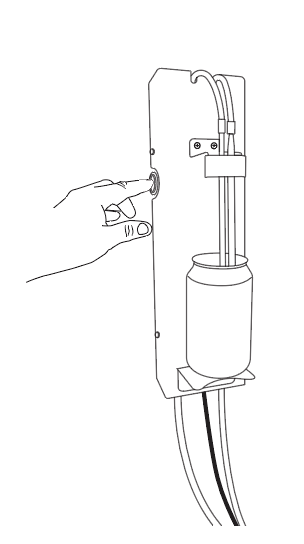
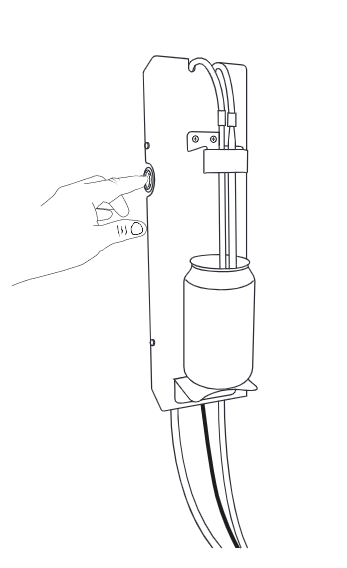
Refreshes Retype-generated documentation.
Process triggered by Duofiller.

diff --git a/resources/js/config.js b/resources/js/config.js
@@ -1,1 +1,1 @@
-var __DOCS_CONFIG__ = {"id":"s185HnfeoVjmyyXdtyR87ZmK+r4d1M/73R4","key":"ry7OBm73P9h36mvz9O0vDS8Y2OqiRHGUnNoby+4q1lA.eOgbhUFNteDAMKGIQwFEsNqPZ2B8cVY2CDHzp5SC6LnXHkr6Cef8ITySJhLsXzydmYxrfEtNH13CwtdbkL3NbQ.83","base":"/","host":"","version":"1.0.0","useRelativePaths":true,"documentName":"index.html","appendDocumentName":false,"trailingSlash":true,"preloadSearch":false,"cacheBustingToken":"2.3.0.708698664127","cacheBustingStrategy":"query","sidebarFilterPlaceholder":"Filter","toolbarFilterPlaceholder":"Filter","showSidebarFilter":true,"filterNotFoundMsg":"No member names found containing the query \"{query}\"","maxHistoryItems":15,"homeIcon":"<path d=\"M12.97 2.59a1.5 1.5 0 00-1.94 121 0l-7.5 6.363A1.5 1.5 0 003 10.097V19.5A1.5 1.5 0 004.5 21h4.75a.75.75 0 00.75-.75V14h4v6.25c0 .414.336.75.75.75h4.75a1.5 1.5 0 001.5-1.5v-9.403a1.5 1.5 0 00-.53-1.144l-7.5-6.363z\"></path>","access":[{"value":"public","label":"Public"},{"value":"protected","label":"Protected"}],"toolbarLinks":[{"id":"fields","label":"Fields"},{"id":"properties","label":"Properties","shortLabel":"Props"},{"id":"methods","label":"Methods"},{"id":"events","label":"Events"}],"sidebar":[{"n":"assembly","l":"Assembly"},{"n":"hookup","l":"Hookup"},{"n":"introduction","l":"Introduction"},{"n":"quickreference","l":"Quick reference"},{"n":"specs","l":"Specs"},{"n":"/","l":"Welcome"},{"n":"cleaning","l":"Cleaning"},{"n":"faq","l":"FAQ"},{"n":"operation","l":"Operation"},{"n":"safety","l":"Safety"},{"n":"tips-and-tricks","l":"Tips and tricks"},{"n":"troubleshooting","l":"Troubleshooting"}],"search":{"mode":0,"minChars":2,"maxResults":20,"placeholder":"Search","hotkeys":["/"],"noResultsFoundMsg":"Sorry, no results found.","recognizeLanguages":true,"languages":[0],"preload":false}};
+var __DOCS_CONFIG__ = {"id":"j12m0Ucc71853u3VFbr7utP57XaAacrs4m3","key":"uj9vy/Y7i84wtmTUMDnAlfza25to502yFUkhLZXHqTw.T2sVLEGMCAtL5J9/tHYPbv567xr5jfXDPhp77x6SQBN7JD4iv3T32SYGl/EeWsrK2DrhZkPmEVpYugqy6i2uAA.31","base":"/","host":"","version":"1.0.0","useRelativePaths":true,"documentName":"index.html","appendDocumentName":false,"trailingSlash":true,"preloadSearch":false,"cacheBustingToken":"2.3.0.708700563528","cacheBustingStrategy":"query","sidebarFilterPlaceholder":"Filter","toolbarFilterPlaceholder":"Filter","showSidebarFilter":true,"filterNotFoundMsg":"No member names found containing the query \"{query}\"","maxHistoryItems":15,"homeIcon":"<path d=\"M12.97 2.59a1.5 1.5 0 00-1.94 121 0l-7.5 6.363A1.5 1.5 0 003 10.097V19.5A1.5 1.5 0 004.5 21h4.75a.75.75 0 00.75-.75V14h4v6.25c0 .414.336.75.75.75h4.75a1.5 1.5 0 001.5-1.5v-9.403a1.5 1.5 0 00-.53-1.144l-7.5-6.363z\"></path>","access":[{"value":"public","label":"Public"},{"value":"protected","label":"Protected"}],"toolbarLinks":[{"id":"fields","label":"Fields"},{"id":"properties","label":"Properties","shortLabel":"Props"},{"id":"methods","label":"Methods"},{"id":"events","label":"Events"}],"sidebar":[{"n":"assembly","l":"Assembly"},{"n":"hookup","l":"Hookup"},{"n":"introduction","l":"Introduction"},{"n":"quickreference","l":"Quick reference"},{"n":"specs","l":"Specs"},{"n":"/","l":"Welcome"},{"n":"cleaning","l":"Cleaning"},{"n":"faq","l":"FAQ"},{"n":"operation","l":"Operation"},{"n":"safety","l":"Safety"},{"n":"tips-and-tricks","l":"Tips and tricks"},{"n":"troubleshooting","l":"Troubleshooting"}],"search":{"mode":0,"minChars":2,"maxResults":20,"placeholder":"Search","hotkeys":["/"],"noResultsFoundMsg":"Sorry, no results found.","recognizeLanguages":true,"languages":[0],"preload":false}};

diff --git a/operation/index.html b/operation/index.html
@@ -3,7 +3,7 @@
 <head>
     <meta charset="UTF-8">
     <meta name="viewport" content="width=device-width,initial-scale=1">
-    <meta name="turbo-cache-control" content="no-cache" data-turbo-track="reload" data-track-token="2.3.0.708698664127">
+    <meta name="turbo-cache-control" content="no-cache" data-turbo-track="reload" data-track-token="2.3.0.708700563528">
 
     <!-- See retype.com -->
     <meta name="generator" content="Retype 2.3.0">
@@ -30,11 +30,11 @@
 
     <script>(function () { var el = document.documentElement, m = localStorage.getItem("doc_theme"), wm = window.matchMedia; if (m === "dark" || (!m && wm && wm("(prefers-color-scheme: dark)").matches)) { el.classList.add("dark") } else { el.classList.remove("dark") } })();</script>
 
-    <link href="../resources/css/retype.css?v=2.3.0.708698664127" rel="stylesheet" />
+    <link href="../resources/css/retype.css?v=2.3.0.708700563528" rel="stylesheet" />
 
-    <script type="text/javascript" src="../resources/js/config.js?v=2.3.0.708698664127" data-turbo-eval="false" defer></script>
+    <script type="text/javascript" src="../resources/js/config.js?v=2.3.0.708700563528" data-turbo-eval="false" defer></script>
     <script type="text/javascript" src="../resources/js/retype.js?v=2.3.0" data-turbo-eval="false" defer></script>
-    <script id="lunr-js" type="text/javascript" src="../resources/js/lunr.js?v=2.3.0.708698664127" data-turbo-eval="false" defer></script>
+    <script id="lunr-js" type="text/javascript" src="../resources/js/lunr.js?v=2.3.0.708700563528" data-turbo-eval="false" defer></script>
     <script id="mermaid-js" type="text/javascript" src="../resources/js/mermaid.js?v=2.3.0" defer></script>
 </head>
 <body>
@@ -212,11 +212,21 @@
 </doc-anchor-target>
 <p>The operation of the Duofiller and Duofiller Mono is simple and intuitive. When the filler is idle give the corresponding push-button a short press to start a fill. The fill sequence will start with purge and then beverage fill. Any time during the fill sequence it can be stopped/aborted by a short press on the push button.</p>
 <p>A typical can-fill run:</p>
+<img src="/docs/static/Monocan.png" alt="drawing" style="width:200px;"/>
 <ol type="I">
+<li>Choose Sensor Mode or Timer Mode</li>
 <li>Insert empty can, press button to start fill</li>
 <li>Wait until filling stops</li>
 <li>Remove the full can, insert a new empty can</li>
-<li>Press button to start a new fill</li>
+<li>Press button to start a new fill. Repeat.</li>
+</ol>
+<p>A typical bottle-fill run:</p>
+<ol type="I">
+<li>Choose Timer Mode</li>
+<li>Insert empty bottle, press button to start fill. Hold bottle in place by hand while filling</li>
+<li>Move bottle downwards as it fills, keeping the fill-tube submerged only a few centimeters into the liquid. Wait until filling stops</li>
+<li>Remove the full bottle, insert a new empty bottle</li>
+<li>Press button to start a new fill. Repeat.</li>
 </ol>
 <p>To set the fill level setpoints we first go through the different modes:</p>
 <doc-anchor-target id="timer-mode">

diff --git a/assembly/index.html b/assembly/index.html
@@ -3,7 +3,7 @@
 <head>
     <meta charset="UTF-8">
     <meta name="viewport" content="width=device-width,initial-scale=1">
-    <meta name="turbo-cache-control" content="no-cache" data-turbo-track="reload" data-track-token="2.3.0.708698664127">
+    <meta name="turbo-cache-control" content="no-cache" data-turbo-track="reload" data-track-token="2.3.0.708700563528">
 
     <!-- See retype.com -->
     <meta name="generator" content="Retype 2.3.0">
@@ -27,11 +27,11 @@
 
     <script>(function () { var el = document.documentElement, m = localStorage.getItem("doc_theme"), wm = window.matchMedia; if (m === "dark" || (!m && wm && wm("(prefers-color-scheme: dark)").matches)) { el.classList.add("dark") } else { el.classList.remove("dark") } })();</script>
 
-    <link href="../resources/css/retype.css?v=2.3.0.708698664127" rel="stylesheet" />
+    <link href="../resources/css/retype.css?v=2.3.0.708700563528" rel="stylesheet" />
 
-    <script type="text/javascript" src="../resources/js/config.js?v=2.3.0.708698664127" data-turbo-eval="false" defer></script>
+    <script type="text/javascript" src="../resources/js/config.js?v=2.3.0.708700563528" data-turbo-eval="false" defer></script>
     <script type="text/javascript" src="../resources/js/retype.js?v=2.3.0" data-turbo-eval="false" defer></script>
-    <script id="lunr-js" type="text/javascript" src="../resources/js/lunr.js?v=2.3.0.708698664127" data-turbo-eval="false" defer></script>
+    <script id="lunr-js" type="text/javascript" src="../resources/js/lunr.js?v=2.3.0.708700563528" data-turbo-eval="false" defer></script>
 </head>
 <body>
     <div id="docs-app" class="relative text-base antialiased text-gray-700 bg-white font-body dark:bg-dark-850 dark:text-dark-300">

diff --git a/cleaning/index.html b/cleaning/index.html
@@ -3,7 +3,7 @@
 <head>
     <meta charset="UTF-8">
     <meta name="viewport" content="width=device-width,initial-scale=1">
-    <meta name="turbo-cache-control" content="no-cache" data-turbo-track="reload" data-track-token="2.3.0.708698664127">
+    <meta name="turbo-cache-control" content="no-cache" data-turbo-track="reload" data-track-token="2.3.0.708700563528">
 
     <!-- See retype.com -->
     <meta name="generator" content="Retype 2.3.0">
@@ -30,11 +30,11 @@
 
     <script>(function () { var el = document.documentElement, m = localStorage.getItem("doc_theme"), wm = window.matchMedia; if (m === "dark" || (!m && wm && wm("(prefers-color-scheme: dark)").matches)) { el.classList.add("dark") } else { el.classList.remove("dark") } })();</script>
 
-    <link href="../resources/css/retype.css?v=2.3.0.708698664127" rel="stylesheet" />
+    <link href="../resources/css/retype.css?v=2.3.0.708700563528" rel="stylesheet" />
 
-    <script type="text/javascript" src="../resources/js/config.js?v=2.3.0.708698664127" data-turbo-eval="false" defer></script>
+    <script type="text/javascript" src="../resources/js/config.js?v=2.3.0.708700563528" data-turbo-eval="false" defer></script>
     <script type="text/javascript" src="../resources/js/retype.js?v=2.3.0" data-turbo-eval="false" defer></script>
-    <script id="lunr-js" type="text/javascript" src="../resources/js/lunr.js?v=2.3.0.708698664127" data-turbo-eval="false" defer></script>
+    <script id="lunr-js" type="text/javascript" src="../resources/js/lunr.js?v=2.3.0.708700563528" data-turbo-eval="false" defer></script>
 </head>
 <body>
     <div id="docs-app" class="relative text-base antialiased text-gray-700 bg-white font-body dark:bg-dark-850 dark:text-dark-300">

diff --git a/faq/index.html b/faq/index.html
@@ -3,7 +3,7 @@
 <head>
     <meta charset="UTF-8">
     <meta name="viewport" content="width=device-width,initial-scale=1">
-    <meta name="turbo-cache-control" content="no-cache" data-turbo-track="reload" data-track-token="2.3.0.708698664127">
+    <meta name="turbo-cache-control" content="no-cache" data-turbo-track="reload" data-track-token="2.3.0.708700563528">
 
     <!-- See retype.com -->
     <meta name="generator" content="Retype 2.3.0">
@@ -30,11 +30,11 @@
 
     <script>(function () { var el = document.documentElement, m = localStorage.getItem("doc_theme"), wm = window.matchMedia; if (m === "dark" || (!m && wm && wm("(prefers-color-scheme: dark)").matches)) { el.classList.add("dark") } else { el.classList.remove("dark") } })();</script>
 
-    <link href="../resources/css/retype.css?v=2.3.0.708698664127" rel="stylesheet" />
+    <link href="../resources/css/retype.css?v=2.3.0.708700563528" rel="stylesheet" />
 
-    <script type="text/javascript" src="../resources/js/config.js?v=2.3.0.708698664127" data-turbo-eval="false" defer></script>
+    <script type="text/javascript" src="../resources/js/config.js?v=2.3.0.708700563528" data-turbo-eval="false" defer></script>
     <script type="text/javascript" src="../resources/js/retype.js?v=2.3.0" data-turbo-eval="false" defer></script>
-    <script id="lunr-js" type="text/javascript" src="../resources/js/lunr.js?v=2.3.0.708698664127" data-turbo-eval="false" defer></script>
+    <script id="lunr-js" type="text/javascript" src="../resources/js/lunr.js?v=2.3.0.708700563528" data-turbo-eval="false" defer></script>
 </head>
 <body>
     <div id="docs-app" class="relative text-base antialiased text-gray-700 bg-white font-body dark:bg-dark-850 dark:text-dark-300">

diff --git a/hookup/index.html b/hookup/index.html
@@ -3,7 +3,7 @@
 <head>
     <meta charset="UTF-8">
     <meta name="viewport" content="width=device-width,initial-scale=1">
-    <meta name="turbo-cache-control" content="no-cache" data-turbo-track="reload" data-track-token="2.3.0.708698664127">
+    <meta name="turbo-cache-control" content="no-cache" data-turbo-track="reload" data-track-token="2.3.0.708700563528">
 
     <!-- See retype.com -->
     <meta name="generator" content="Retype 2.3.0">
@@ -30,11 +30,11 @@
 
     <script>(function () { var el = document.documentElement, m = localStorage.getItem("doc_theme"), wm = window.matchMedia; if (m === "dark" || (!m && wm && wm("(prefers-color-scheme: dark)").matches)) { el.classList.add("dark") } else { el.classList.remove("dark") } })();</script>
 
-    <link href="../resources/css/retype.css?v=2.3.0.708698664127" rel="stylesheet" />
+    <link href="../resources/css/retype.css?v=2.3.0.708700563528" rel="stylesheet" />
 
-    <script type="text/javascript" src="../resources/js/config.js?v=2.3.0.708698664127" data-turbo-eval="false" defer></script>
+    <script type="text/javascript" src="../resources/js/config.js?v=2.3.0.708700563528" data-turbo-eval="false" defer></script>
     <script type="text/javascript" src="../resources/js/retype.js?v=2.3.0" data-turbo-eval="false" defer></script>
-    <script id="lunr-js" type="text/javascript" src="../resources/js/lunr.js?v=2.3.0.708698664127" data-turbo-eval="false" defer></script>
+    <script id="lunr-js" type="text/javascript" src="../resources/js/lunr.js?v=2.3.0.708700563528" data-turbo-eval="false" defer></script>
 </head>
 <body>
     <div id="docs-app" class="relative text-base antialiased text-gray-700 bg-white font-body dark:bg-dark-850 dark:text-dark-300">

diff --git a/introduction/index.html b/introduction/index.html
@@ -3,7 +3,7 @@
 <head>
     <meta charset="UTF-8">
     <meta name="viewport" content="width=device-width,initial-scale=1">
-    <meta name="turbo-cache-control" content="no-cache" data-turbo-track="reload" data-track-token="2.3.0.708698664127">
+    <meta name="turbo-cache-control" content="no-cache" data-turbo-track="reload" data-track-token="2.3.0.708700563528">
 
     <!-- See retype.com -->
     <meta name="generator" content="Retype 2.3.0">
@@ -30,11 +30,11 @@
 
     <script>(function () { var el = document.documentElement, m = localStorage.getItem("doc_theme"), wm = window.matchMedia; if (m === "dark" || (!m && wm && wm("(prefers-color-scheme: dark)").matches)) { el.classList.add("dark") } else { el.classList.remove("dark") } })();</script>
 
-    <link href="../resources/css/retype.css?v=2.3.0.708698664127" rel="stylesheet" />
+    <link href="../resources/css/retype.css?v=2.3.0.708700563528" rel="stylesheet" />
 
-    <script type="text/javascript" src="../resources/js/config.js?v=2.3.0.708698664127" data-turbo-eval="false" defer></script>
+    <script type="text/javascript" src="../resources/js/config.js?v=2.3.0.708700563528" data-turbo-eval="false" defer></script>
     <script type="text/javascript" src="../resources/js/retype.js?v=2.3.0" data-turbo-eval="false" defer></script>
-    <script id="lunr-js" type="text/javascript" src="../resources/js/lunr.js?v=2.3.0.708698664127" data-turbo-eval="false" defer></script>
+    <script id="lunr-js" type="text/javascript" src="../resources/js/lunr.js?v=2.3.0.708700563528" data-turbo-eval="false" defer></script>
 </head>
 <body>
     <div id="docs-app" class="relative text-base antialiased text-gray-700 bg-white font-body dark:bg-dark-850 dark:text-dark-300">

diff --git a/quickreference/index.html b/quickreference/index.html
@@ -3,7 +3,7 @@
 <head>
     <meta charset="UTF-8">
     <meta name="viewport" content="width=device-width,initial-scale=1">
-    <meta name="turbo-cache-control" content="no-cache" data-turbo-track="reload" data-track-token="2.3.0.708698664127">
+    <meta name="turbo-cache-control" content="no-cache" data-turbo-track="reload" data-track-token="2.3.0.708700563528">
 
     <!-- See retype.com -->
     <meta name="generator" content="Retype 2.3.0">
@@ -27,11 +27,11 @@
 
     <script>(function () { var el = document.documentElement, m = localStorage.getItem("doc_theme"), wm = window.matchMedia; if (m === "dark" || (!m && wm && wm("(prefers-color-scheme: dark)").matches)) { el.classList.add("dark") } else { el.classList.remove("dark") } })();</script>
 
-    <link href="../resources/css/retype.css?v=2.3.0.708698664127" rel="stylesheet" />
+    <link href="../resources/css/retype.css?v=2.3.0.708700563528" rel="stylesheet" />
 
-    <script type="text/javascript" src="../resources/js/config.js?v=2.3.0.708698664127" data-turbo-eval="false" defer></script>
+    <script type="text/javascript" src="../resources/js/config.js?v=2.3.0.708700563528" data-turbo-eval="false" defer></script>
     <script type="text/javascript" src="../resources/js/retype.js?v=2.3.0" data-turbo-eval="false" defer></script>
-    <script id="lunr-js" type="text/javascript" src="../resources/js/lunr.js?v=2.3.0.708698664127" data-turbo-eval="false" defer></script>
+    <script id="lunr-js" type="text/javascript" src="../resources/js/lunr.js?v=2.3.0.708700563528" data-turbo-eval="false" defer></script>
 </head>
 <body>
     <div id="docs-app" class="relative text-base antialiased text-gray-700 bg-white font-body dark:bg-dark-850 dark:text-dark-300">

diff --git a/safety/index.html b/safety/index.html
@@ -3,7 +3,7 @@
 <head>
     <meta charset="UTF-8">
     <meta name="viewport" content="width=device-width,initial-scale=1">
-    <meta name="turbo-cache-control" content="no-cache" data-turbo-track="reload" data-track-token="2.3.0.708698664127">
+    <meta name="turbo-cache-control" content="no-cache" data-turbo-track="reload" data-track-token="2.3.0.708700563528">
 
     <!-- See retype.com -->
     <meta name="generator" content="Retype 2.3.0">
@@ -30,11 +30,11 @@
 
     <script>(function () { var el = document.documentElement, m = localStorage.getItem("doc_theme"), wm = window.matchMedia; if (m === "dark" || (!m && wm && wm("(prefers-color-scheme: dark)").matches)) { el.classList.add("dark") } else { el.classList.remove("dark") } })();</script>
 
-    <link href="../resources/css/retype.css?v=2.3.0.708698664127" rel="stylesheet" />
+    <link href="../resources/css/retype.css?v=2.3.0.708700563528" rel="stylesheet" />
 
-    <script type="text/javascript" src="../resources/js/config.js?v=2.3.0.708698664127" data-turbo-eval="false" defer></script>
+    <script type="text/javascript" src="../resources/js/config.js?v=2.3.0.708700563528" data-turbo-eval="false" defer></script>
     <script type="text/javascript" src="../resources/js/retype.js?v=2.3.0" data-turbo-eval="false" defer></script>
-    <script id="lunr-js" type="text/javascript" src="../resources/js/lunr.js?v=2.3.0.708698664127" data-turbo-eval="false" defer></script>
+    <script id="lunr-js" type="text/javascript" src="../resources/js/lunr.js?v=2.3.0.708700563528" data-turbo-eval="false" defer></script>
 </head>
 <body>
     <div id="docs-app" class="relative text-base antialiased text-gray-700 bg-white font-body dark:bg-dark-850 dark:text-dark-300">

diff --git a/specs/index.html b/specs/index.html
@@ -3,7 +3,7 @@
 <head>
     <meta charset="UTF-8">
     <meta name="viewport" content="width=device-width,initial-scale=1">
-    <meta name="turbo-cache-control" content="no-cache" data-turbo-track="reload" data-track-token="2.3.0.708698664127">
+    <meta name="turbo-cache-control" content="no-cache" data-turbo-track="reload" data-track-token="2.3.0.708700563528">
 
     <!-- See retype.com -->
     <meta name="generator" content="Retype 2.3.0">
@@ -30,11 +30,11 @@
 
     <script>(function () { var el = document.documentElement, m = localStorage.getItem("doc_theme"), wm = window.matchMedia; if (m === "dark" || (!m && wm && wm("(prefers-color-scheme: dark)").matches)) { el.classList.add("dark") } else { el.classList.remove("dark") } })();</script>
 
-    <link href="../resources/css/retype.css?v=2.3.0.708698664127" rel="stylesheet" />
+    <link href="../resources/css/retype.css?v=2.3.0.708700563528" rel="stylesheet" />
 
-    <script type="text/javascript" src="../resources/js/config.js?v=2.3.0.708698664127" data-turbo-eval="false" defer></script>
+    <script type="text/javascript" src="../resources/js/config.js?v=2.3.0.708700563528" data-turbo-eval="false" defer></script>
     <script type="text/javascript" src="../resources/js/retype.js?v=2.3.0" data-turbo-eval="false" defer></script>
-    <script id="lunr-js" type="text/javascript" src="../resources/js/lunr.js?v=2.3.0.708698664127" data-turbo-eval="false" defer></script>
+    <script id="lunr-js" type="text/javascript" src="../resources/js/lunr.js?v=2.3.0.708700563528" data-turbo-eval="false" defer></script>
 </head>
 <body>
     <div id="docs-app" class="relative text-base antialiased text-gray-700 bg-white font-body dark:bg-dark-850 dark:text-dark-300">

diff --git a/tips-and-tricks/index.html b/tips-and-tricks/index.html
@@ -3,7 +3,7 @@
 <head>
     <meta charset="UTF-8">
     <meta name="viewport" content="width=device-width,initial-scale=1">
-    <meta name="turbo-cache-control" content="no-cache" data-turbo-track="reload" data-track-token="2.3.0.708698664127">
+    <meta name="turbo-cache-control" content="no-cache" data-turbo-track="reload" data-track-token="2.3.0.708700563528">
 
     <!-- See retype.com -->
     <meta name="generator" content="Retype 2.3.0">
@@ -30,11 +30,11 @@
 
     <script>(function () { var el = document.documentElement, m = localStorage.getItem("doc_theme"), wm = window.matchMedia; if (m === "dark" || (!m && wm && wm("(prefers-color-scheme: dark)").matches)) { el.classList.add("dark") } else { el.classList.remove("dark") } })();</script>
 
-    <link href="../resources/css/retype.css?v=2.3.0.708698664127" rel="stylesheet" />
+    <link href="../resources/css/retype.css?v=2.3.0.708700563528" rel="stylesheet" />
 
-    <script type="text/javascript" src="../resources/js/config.js?v=2.3.0.708698664127" data-turbo-eval="false" defer></script>
+    <script type="text/javascript" src="../resources/js/config.js?v=2.3.0.708700563528" data-turbo-eval="false" defer></script>
     <script type="text/javascript" src="../resources/js/retype.js?v=2.3.0" data-turbo-eval="false" defer></script>
-    <script id="lunr-js" type="text/javascript" src="../resources/js/lunr.js?v=2.3.0.708698664127" data-turbo-eval="false" defer></script>
+    <script id="lunr-js" type="text/javascript" src="../resources/js/lunr.js?v=2.3.0.708700563528" data-turbo-eval="false" defer></script>
 </head>
 <body>
     <div id="docs-app" class="relative text-base antialiased text-gray-700 bg-white font-body dark:bg-dark-850 dark:text-dark-300">

diff --git a/troubleshooting/index.html b/troubleshooting/index.html
@@ -3,7 +3,7 @@
 <head>
     <meta charset="UTF-8">
     <meta name="viewport" content="width=device-width,initial-scale=1">
-    <meta name="turbo-cache-control" content="no-cache" data-turbo-track="reload" data-track-token="2.3.0.708698664127">
+    <meta name="turbo-cache-control" content="no-cache" data-turbo-track="reload" data-track-token="2.3.0.708700563528">
 
     <!-- See retype.com -->
     <meta name="generator" content="Retype 2.3.0">
@@ -30,11 +30,11 @@
 
     <script>(function () { var el = document.documentElement, m = localStorage.getItem("doc_theme"), wm = window.matchMedia; if (m === "dark" || (!m && wm && wm("(prefers-color-scheme: dark)").matches)) { el.classList.add("dark") } else { el.classList.remove("dark") } })();</script>
 
-    <link href="../resources/css/retype.css?v=2.3.0.708698664127" rel="stylesheet" />
+    <link href="../resources/css/retype.css?v=2.3.0.708700563528" rel="stylesheet" />
 
-    <script type="text/javascript" src="../resources/js/config.js?v=2.3.0.708698664127" data-turbo-eval="false" defer></script>
+    <script type="text/javascript" src="../resources/js/config.js?v=2.3.0.708700563528" data-turbo-eval="false" defer></script>
     <script type="text/javascript" src="../resources/js/retype.js?v=2.3.0" data-turbo-eval="false" defer></script>
-    <script id="lunr-js" type="text/javascript" src="../resources/js/lunr.js?v=2.3.0.708698664127" data-turbo-eval="false" defer></script>
+    <script id="lunr-js" type="text/javascript" src="../resources/js/lunr.js?v=2.3.0.708700563528" data-turbo-eval="false" defer></script>
 </head>
 <body>
     <div id="docs-app" class="relative text-base antialiased text-gray-700 bg-white font-body dark:bg-dark-850 dark:text-dark-300">
